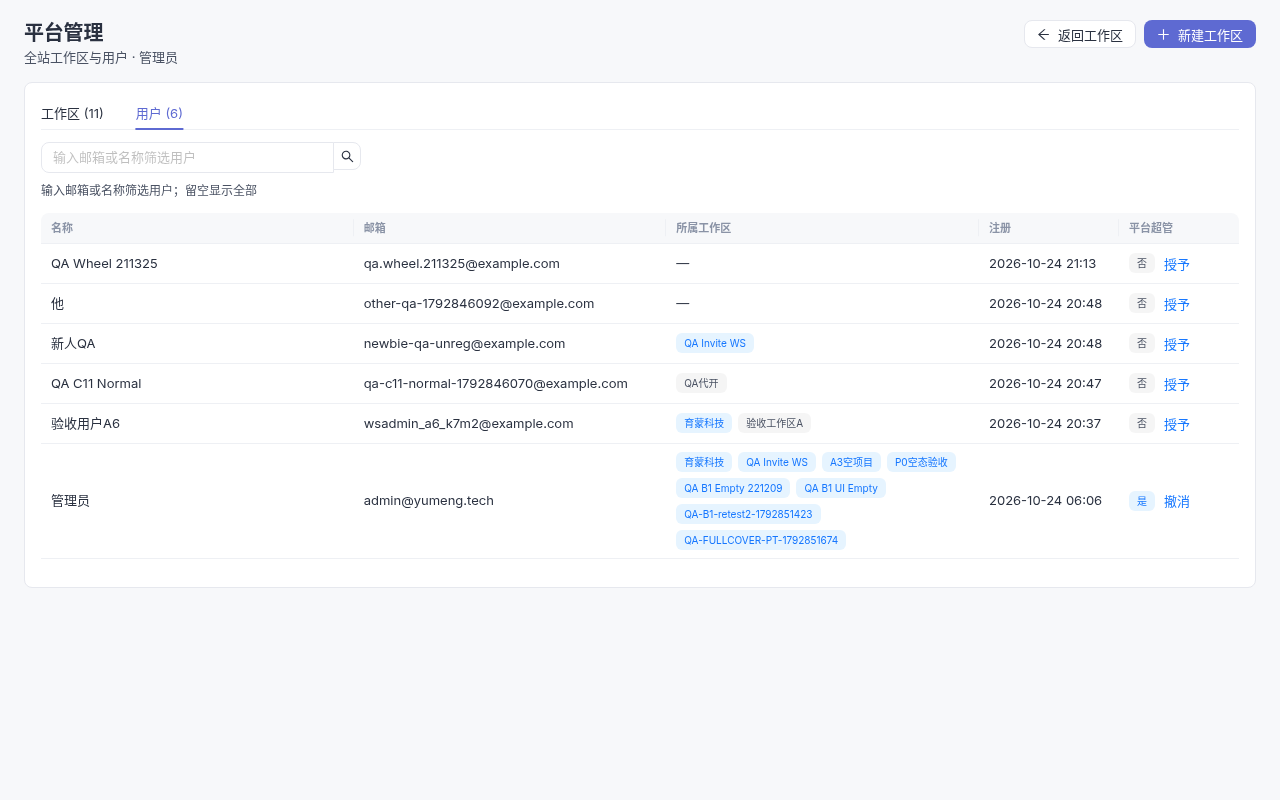
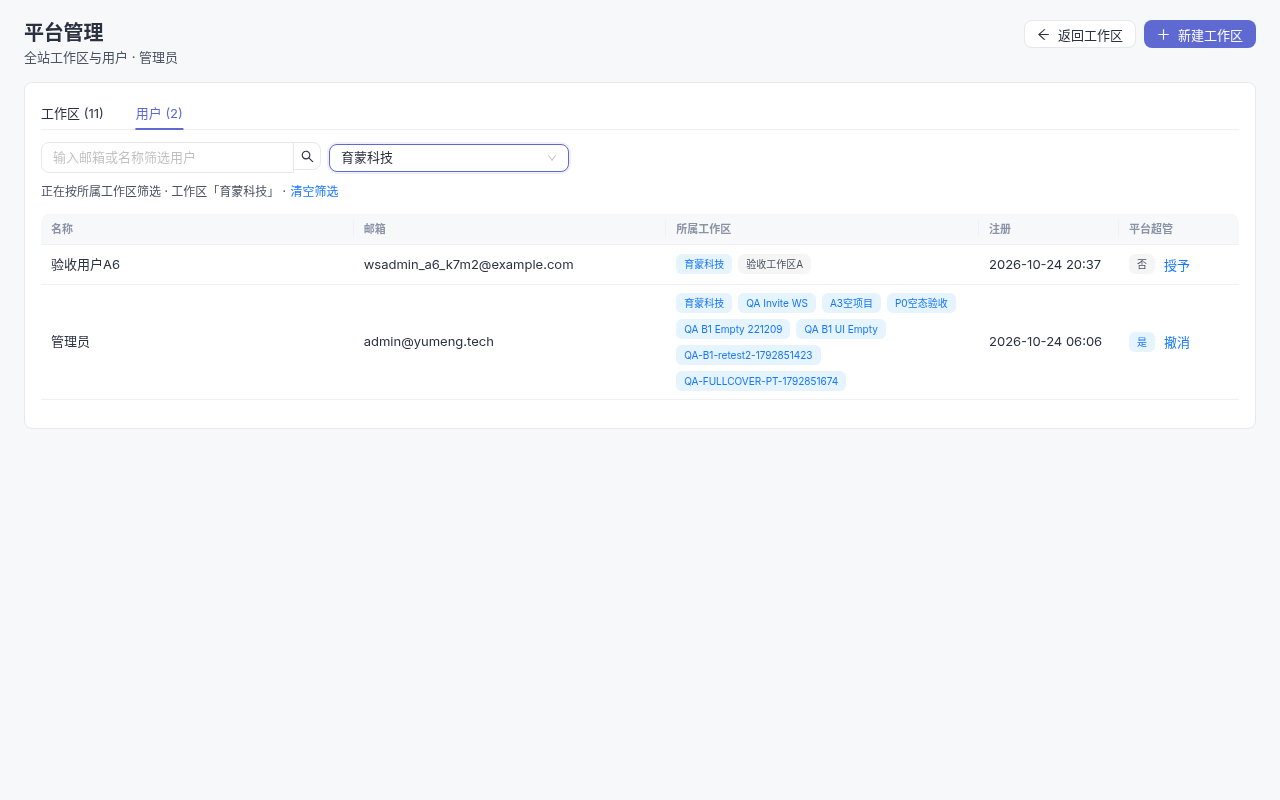
feat(admin): PRO_ADMIN D3 用户台所属 WS 筛 Soft† + 箱截
API GET /admin/users 无 workspace_id → Soft† FE 按 row.workspaces[].id 滤；
Select 可搜与防抖 q 叠加；清空恢复 + 空结果人话；箱截 pro-d-users.png。
D4/G 仍冻；不喊 Go。

diff --git a/frontend/src/pages/admin/PlatformAdminPage.tsx b/frontend/src/pages/admin/PlatformAdminPage.tsx
@@ -41,6 +41,7 @@ type WsStatusFilter = 'all' | 'enabled' | 'disabled'
  * 平台超管台（PRO_ADMIN A2）：顶栏标题+副文+主操作一排；工作区|用户对等；表区 hug。
  * C4：工作区表顶名称搜索 + 状态筛（FE 滤）。
  * D2：用户台所属 WS 芯片可点（有成员权进 WS / 否则复制名）；搜索防抖 + 空搜人话提示。
+ * D3：用户台所属 WS 筛（Select 可搜；API 无 workspace_id → Soft† FE 按 row.workspaces[].id 滤，与 q 叠加）。
  */
 export default function PlatformAdminPage() {
   const nav = useNavigate()
@@ -58,6 +59,8 @@ export default function PlatformAdminPage() {
   const [userQuery, setUserQuery] = useState('')
   const [userQueryDebounced, setUserQueryDebounced] = useState('')
   const userSearchTimer = useRef<ReturnType<typeof setTimeout> | null>(null)
+  /** D3 Soft†：所属工作区筛（FE 按 row.workspaces[].id；API 暂无 workspace_id） */
+  const [userWsFilter, setUserWsFilter] = useState<string | undefined>(undefined)
   /** D2：当前超管本人可进入的 WS（listMine）；用于芯片优先跳转 vs 复制 */
   const [myWsIds, setMyWsIds] = useState<Set<string>>(() => new Set())
   /** C4：工作区名称搜索 + 状态筛（FE 滤；API 无 q/status） */
@@ -245,6 +248,12 @@ export default function PlatformAdminPage() {
 
   const wsFilterActive = !!(wsQueryDebounced.trim() || wsStatusFilter !== 'all')
 
+  /** D3 Soft†：在 API ?q= 结果上再按所属 WS 客户端滤 */
+  const filteredUsers = userWsFilter
+    ? users.filter((row) => (row.workspaces || []).some((w) => w.id === userWsFilter))
+    : users
+  const userFilterActive = !!(userQueryDebounced.trim() || userWsFilter)
+
   const empty = (desc: string) => (
     <div className="acb-empty-panel" style={{ padding: 24, minHeight: 120 }}>
       <Empty image={Empty.PRESENTED_IMAGE_SIMPLE} description={desc} />
@@ -409,28 +418,63 @@ export default function PlatformAdminPage() {
             },
             {
               key: 'users',
-              label: `用户${users.length ? ` (${users.length})` : ''}`,
+              label: `用户${filteredUsers.length ? ` (${filteredUsers.length})` : ''}`,
               children: (
                 <>
-                  <Input.Search
-                    allowClear
-                    placeholder="输入邮箱或名称筛选用户"
-                    value={userQuery}
-                    onChange={(e) => setUserQuery(e.target.value)}
-                    onSearch={(v) => {
-                      setUserQuery(v)
-                      setUserQueryDebounced(v)
-                    }}
-                    style={{ maxWidth: 320, marginBottom: 8 }}
-                    aria-label="输入邮箱或名称筛选用户"
-                  />
-                  {!userQueryDebounced.trim() ? (
+                  <Space wrap style={{ marginBottom: 8 }} size={8}>
+                    <Input.Search
+                      allowClear
+                      placeholder="输入邮箱或名称筛选用户"
+                      value={userQuery}
+                      onChange={(e) => setUserQuery(e.target.value)}
+                      onSearch={(v) => {
+                        setUserQuery(v)
+                        setUserQueryDebounced(v)
+                      }}
+                      style={{ width: 280 }}
+                      aria-label="输入邮箱或名称筛选用户"
+                    />
+                    <Select
+                      allowClear
+                      showSearch
+                      optionFilterProp="label"
+                      placeholder="按所属工作区筛选"
+                      value={userWsFilter}
+                      onChange={(v: string | undefined) => setUserWsFilter(v)}
+                      style={{ width: 240 }}
+                      aria-label="按所属工作区筛选"
+                      options={workspaces.map((w) => ({
+                        value: w.id,
+                        label: w.name || w.slug || w.id,
+                      }))}
+                      notFoundContent="无匹配工作区"
+                    />
+                  </Space>
+                  {!userFilterActive ? (
                     <Typography.Paragraph type="secondary" style={{ fontSize: 12, marginTop: 0, marginBottom: 12 }}>
-                      输入邮箱或名称筛选用户；留空显示全部
+                      输入邮箱或名称，或按所属工作区筛选；清空筛选项即恢复全部
                     </Typography.Paragraph>
                   ) : (
                     <Typography.Paragraph type="secondary" style={{ fontSize: 12, marginTop: 0, marginBottom: 12 }}>
-                      正在筛选「{userQueryDebounced.trim()}」
+                      {userQueryDebounced.trim()
+                        ? `正在筛选「${userQueryDebounced.trim()}」`
+                        : '正在按所属工作区筛选'}
+                      {userWsFilter
+                        ? ` · 工作区「${workspaces.find((w) => w.id === userWsFilter)?.name || userWsFilter}」`
+                        : ''}
+                      {' · '}
+                      <Button
+                        type="link"
+                        size="small"
+                        style={{ padding: 0, height: 'auto', fontSize: 12 }}
+                        onClick={() => {
+                          setUserQuery('')
+                          setUserQueryDebounced('')
+                          setUserWsFilter(undefined)
+                        }}
+                      >
+                        清空筛选
+                      </Button>
                     </Typography.Paragraph>
                   )}
                   {userErr ? (
@@ -447,13 +491,13 @@ export default function PlatformAdminPage() {
                     />
                   ) : null}
                   <Spin spinning={userLoading}>
-                    {users.length ? (
+                    {filteredUsers.length ? (
                       <Table
                         className="acb-list-table"
                         size="small"
                         rowKey="id"
                         pagination={false}
-                        dataSource={users}
+                        dataSource={filteredUsers}
                         columns={[
                           { title: '名称', dataIndex: 'name' },
                           { title: '邮箱', dataIndex: 'email', ellipsis: true },
@@ -525,8 +569,10 @@ export default function PlatformAdminPage() {
                     ) : (
                       empty(
                         userErr ||
-                          (userQueryDebounced.trim()
-                            ? '无匹配用户，试试其他邮箱或名称'
+                          (userFilterActive
+                            ? userWsFilter && !userQueryDebounced.trim()
+                              ? '该工作区下暂无用户，试试其他工作区或清空筛选'
+                              : '无匹配用户，试试其他邮箱/名称或工作区，或清空筛选'
                             : '还没有用户 · 输入邮箱或名称筛选用户'),
                       )
                     )}

diff --git a/frontend/src/api/admin.ts b/frontend/src/api/admin.ts
@@ -54,10 +54,19 @@ export function createAdminWorkspace(body: {
   })
 }
 
-/** D1：可选 q 按邮箱/名过滤 → GET /admin/users?q= */
-export function listAdminUsers(opts?: { q?: string }) {
+/**
+ * D1：可选 q 按邮箱/名过滤 → GET /admin/users?q=
+ * D3：API 暂无 workspace_id；所属 WS 筛由 FE Soft†（row.workspaces[].id）完成。
+ * 预留 workspace_id 参数：若后端日后支持则透传；当前调用方勿依赖服务端滤。
+ */
+export function listAdminUsers(opts?: { q?: string; workspace_id?: string }) {
+  const params = new URLSearchParams()
   const q = opts?.q?.trim()
-  const path = q ? `/admin/users?q=${encodeURIComponent(q)}` : '/admin/users'
+  if (q) params.set('q', q)
+  // Soft†：不向 API 发 workspace_id（后端未实现）；保留签名供日后切换
+  void opts?.workspace_id
+  const qs = params.toString()
+  const path = qs ? `/admin/users?${qs}` : '/admin/users'
   return api<{ users: AdminUser[] }>(path, { skipToast: true })
 }
 

diff --git a/frontend/public/qa-d3-seed.html b/frontend/public/qa-d3-seed.html
@@ -1,0 +1,15 @@
+<!doctype html>
+<html lang="zh-CN"><head><meta charset="utf-8"><title>D3 seed</title></head>
+<body style="font:14px sans-serif;padding:24px">
+<p id="s">正在进入超管用户台（D3 WS 筛）箱截…</p>
+<script>
+try {
+  localStorage.setItem('token', 'eyJhbGciOiJIUzI1NiIsInR5cCI6IkpXVCJ9.eyJ1aWQiOiI4NzM5N2EwMmJkZmVhMThjY2ZkNzVkMTlhNGJjZTJlOSIsImVtYWlsIjoiYWRtaW5AeXVtZW5nLnRlY2giLCJpc3MiOiJhaS1jb2xsYWItYm9hcmQiLCJleHAiOjE3OTM0NjkyMDQsImlhdCI6MTc5Mjg2NDQwNH0.9EPWX4RaNWa2gX3hsDd05wvzOcAcBOwPsYrvjsIMsH8');
+  localStorage.removeItem('ai-collab-board:force-mock');
+  document.getElementById('s').textContent = 'token ok → redirect';
+  location.replace('/admin?tab=users');
+} catch (e) {
+  document.getElementById('s').textContent = String(e);
+}
+</script>
+</body></html>

diff --git a/docs/NEXT_WAVE_DEBT_PRO_ADMIN_D3.md b/docs/NEXT_WAVE_DEBT_PRO_ADMIN_D3.md
@@ -29,9 +29,9 @@
 
 ## 产品勾选
 
-- [ ] **D3-1** WS 筛
-- [ ] **D3-2** 空结果/清空
-- [ ] **D3-3** 箱截
+- [ ] **D3-1** WS 筛 · React 已交 Soft† FE（等产品勾）
+- [ ] **D3-2** 空结果/清空 · React 已交（等产品勾）
+- [ ] **D3-3** 箱截 · React 已交（等产品勾）
 - [ ] **D3-4** QA
 - [ ] **D3-5** 关单
 
@@ -47,7 +47,8 @@
 ## 进度注记
 
 - 2026-10-25 02:08 · E2 关后产品拍开本刀；D4/G 仍冻。
+- 2026-10-25 · React D3-1～D3-3：用户台顶 **所属 WS 筛**（Select 可搜 + allowClear）与邮箱/名称防抖 `q` 叠加；**API `GET /admin/users` 无 `workspace_id` → Soft† FE 按 `row.workspaces[].id` 滤**（用户行已有 workspaces 列表，可靠）；清空筛恢复全部 + 空结果人话；箱截 `docs/qa-shots/pro-d-users.png`（WS 筛可见）。**不喊 Go**。等 QA D3-4 / 产品 D3-5。**D4/G 仍冻**。
 
 ## 关单进度
 
-**开干** · 等 React D3-1。
+**开干** · React D3-1～D3-3 已交 Soft†；等 QA D3-4。

diff --git a/docs/NEXT_WAVE_DEBT_PRO_ADMIN.md b/docs/NEXT_WAVE_DEBT_PRO_ADMIN.md
@@ -139,6 +139,7 @@
 ## 进度注记
 
 - 2026-10-25 02:08 · **E2 正式关**后产品拍：**仅解冻 D3**（超管用户台按所属 WS 筛）；**D4 / G 仍冻**。见 [`PRO_ADMIN_D3`](./NEXT_WAVE_DEBT_PRO_ADMIN_D3.md)。
+- 2026-10-25 · React 交 **D3-1～D3-3 Soft† FE**（用户台所属 WS 筛；API 无 workspace_id；箱截 `pro-d-users.png`）；等 QA/产品。**D4/G 仍冻**。
 - 2026-10-25 02:06 · E2 FE `11ac139` 交验；产品勾 E2-1～E2-3，开 QA E2-4。**D3–D4 / G 仍冻**。
 - 2026-10-25 01:58 · **D2 正式关**后产品拍：**仅解冻 E2**（看板完成列「归档本列」入口）；**D3–D4 / G 仍冻**。见 [`PRO_ADMIN_E2`](./NEXT_WAVE_DEBT_PRO_ADMIN_E2.md)。好用优先：日用看板归档 > 超管 D3 筛。
 - 2026-10-25 01:55 · D2 FE `38e0b4c` 交验；产品勾 D2-1～D2-3，开 QA D2-4。**D3–D4 / E2 / G 仍冻**。
